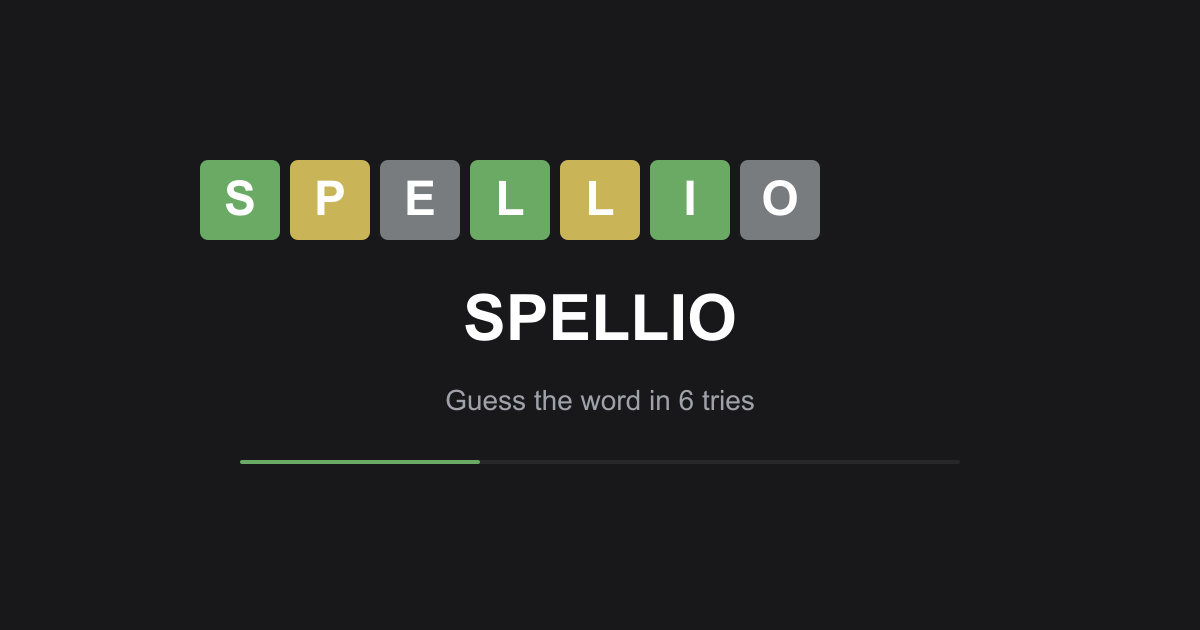
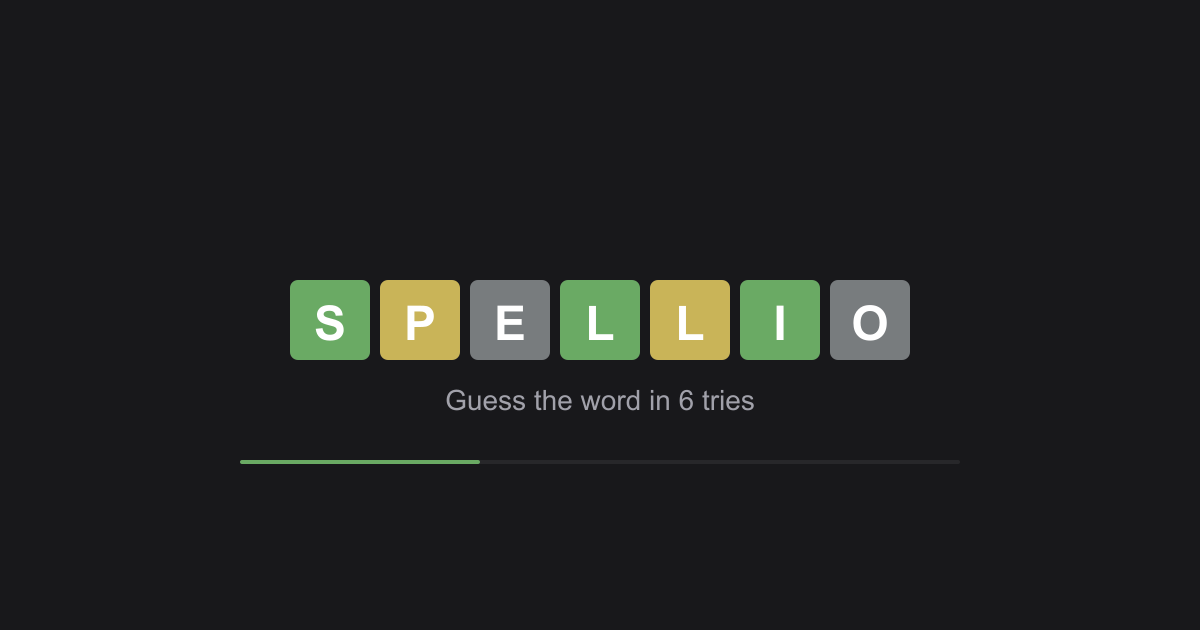
fix: read SVG directly in generate-og script, regenerate PNG

Changed region(s): [[0.2158, 0.4222, 0.7708, 0.573], [0.1542, 0.2413, 0.7092, 0.3921]]

diff --git a/scripts/generate-og.js b/scripts/generate-og.js
@@ -1,27 +1,8 @@
 const sharp = require('sharp');
 const path = require('path');
+const fs = require('fs');
 
-const svg = `<svg xmlns="http://www.w3.org/2000/svg" viewBox="0 0 1200 630" width="1200" height="630">
-  <rect width="1200" height="630" fill="#18181b"/>
-  <rect x="200" y="160" width="80" height="80" rx="8" fill="#6aaa64"/>
-  <text x="240" y="215" font-family="Arial, sans-serif" font-size="48" font-weight="bold" fill="white" text-anchor="middle">S</text>
-  <rect x="290" y="160" width="80" height="80" rx="8" fill="#c9b458"/>
-  <text x="330" y="215" font-family="Arial, sans-serif" font-size="48" font-weight="bold" fill="white" text-anchor="middle">P</text>
-  <rect x="380" y="160" width="80" height="80" rx="8" fill="#787c7e"/>
-  <text x="420" y="215" font-family="Arial, sans-serif" font-size="48" font-weight="bold" fill="white" text-anchor="middle">E</text>
-  <rect x="470" y="160" width="80" height="80" rx="8" fill="#6aaa64"/>
-  <text x="510" y="215" font-family="Arial, sans-serif" font-size="48" font-weight="bold" fill="white" text-anchor="middle">L</text>
-  <rect x="560" y="160" width="80" height="80" rx="8" fill="#c9b458"/>
-  <text x="600" y="215" font-family="Arial, sans-serif" font-size="48" font-weight="bold" fill="white" text-anchor="middle">L</text>
-  <rect x="650" y="160" width="80" height="80" rx="8" fill="#6aaa64"/>
-  <text x="690" y="215" font-family="Arial, sans-serif" font-size="48" font-weight="bold" fill="white" text-anchor="middle">I</text>
-  <rect x="740" y="160" width="80" height="80" rx="8" fill="#787c7e"/>
-  <text x="780" y="215" font-family="Arial, sans-serif" font-size="48" font-weight="bold" fill="white" text-anchor="middle">O</text>
-  <text x="600" y="340" font-family="Arial, sans-serif" font-size="64" font-weight="bold" fill="white" text-anchor="middle">SPELLIO</text>
-  <text x="600" y="410" font-family="Arial, sans-serif" font-size="28" fill="#a1a1aa" text-anchor="middle">Guess the word in 6 tries</text>
-  <rect x="240" y="460" width="720" height="4" rx="2" fill="#27272a"/>
-  <rect x="240" y="460" width="240" height="4" rx="2" fill="#6aaa64"/>
-</svg>`;
+const svg = fs.readFileSync(path.join(__dirname, '..', 'public', 'og-image.svg'), 'utf8');
 
 async function generate() {
   await sharp(Buffer.from(svg))
